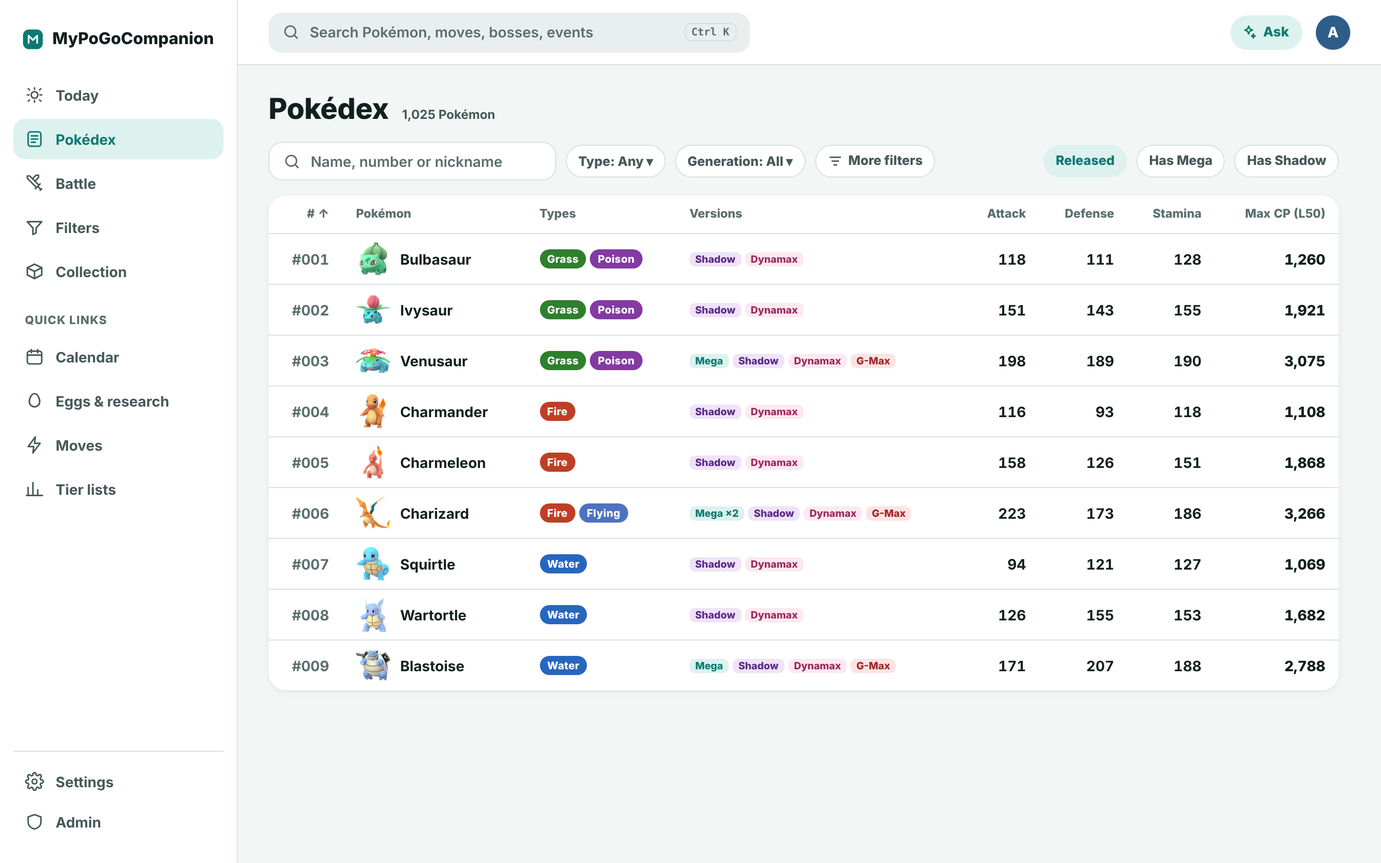
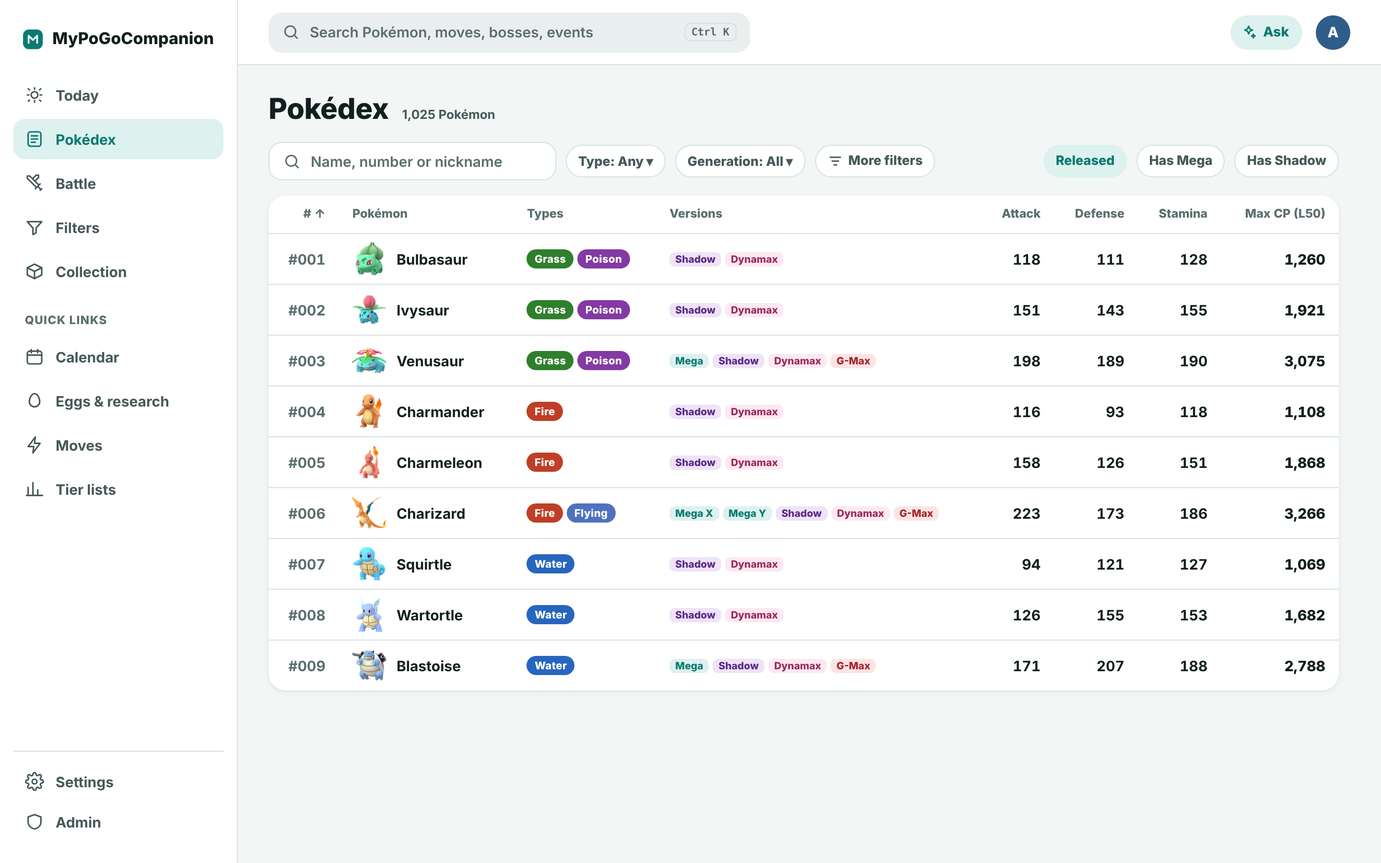
B1: version markers switch the row to that version (hover/tap)
Claude-Session: https://claude.ai/code/session_014PLsCiJiJmtsciFeh9tQXY

diff --git a/design/source/screens/B1-desktop.html b/design/source/screens/B1-desktop.html
@@ -4,13 +4,13 @@
 <div style="display:flex;gap:10px;align-items:center;flex-wrap:wrap"><div class="searchbox" style="width:300px;height:40px;background:var(--surface);border:1px solid var(--line)">SEARCHICON Name, number or nickname</div>
 <span class="tbtn">Type: Any ▾</span><span class="tbtn">Generation: All ▾</span><span class="tbtn"><svg width="16" height="16" viewBox="0 0 24 24" fill="none" stroke="currentColor" stroke-width="2.2" stroke-linecap="round"><path d="M4 6h16M7 12h10M10 18h4"/></svg>More filters</span><span style="flex:1"></span><span class="tbtn on">Released</span><span class="tbtn">Has Mega</span><span class="tbtn">Has Shadow</span></div>
 <div class="card" style="overflow:hidden"><table class="dex"><tr><th class="n"># ↑</th><th>Pokémon</th><th>Types</th><th>Versions</th><th class="n">Attack</th><th class="n">Defense</th><th class="n">Stamina</th><th class="n">Max CP (L50)</th></tr>
-<tr><td class="n" style="color:var(--text-3)">#001</td><td><span style="display:flex;align-items:center;gap:10px"><img class="sprite" src="../sprites/001.png" width="36" height="36" alt="">Bulbasaur</span></td>
-<td><span style="display:flex;gap:4px"><span class="type grass">Grass</span><span class="type poison">Poison</span></span></td><td><span class="vers"><span class="ver shadow">Shadow</span><span class="ver dynamax">Dynamax</span></span></td><td class="n">118</td><td class="n">111</td><td class="n">128</td><td class="n" style="font-weight:800">1,260</td></tr><tr><td class="n" style="color:var(--text-3)">#002</td><td><span style="display:flex;align-items:center;gap:10px"><img class="sprite" src="../sprites/002.png" width="36" height="36" alt="">Ivysaur</span></td>
-<td><span style="display:flex;gap:4px"><span class="type grass">Grass</span><span class="type poison">Poison</span></span></td><td><span class="vers"><span class="ver shadow">Shadow</span><span class="ver dynamax">Dynamax</span></span></td><td class="n">151</td><td class="n">143</td><td class="n">155</td><td class="n" style="font-weight:800">1,921</td></tr><tr><td class="n" style="color:var(--text-3)">#003</td><td><span style="display:flex;align-items:center;gap:10px"><img class="sprite" src="../sprites/003.png" width="36" height="36" alt="">Venusaur</span></td>
-<td><span style="display:flex;gap:4px"><span class="type grass">Grass</span><span class="type poison">Poison</span></span></td><td><span class="vers"><span class="ver mega">Mega</span><span class="ver shadow">Shadow</span><span class="ver dynamax">Dynamax</span><span class="ver gmax">G-Max</span></span></td><td class="n">198</td><td class="n">189</td><td class="n">190</td><td class="n" style="font-weight:800">3,075</td></tr><tr><td class="n" style="color:var(--text-3)">#004</td><td><span style="display:flex;align-items:center;gap:10px"><img class="sprite" src="../sprites/004.png" width="36" height="36" alt="">Charmander</span></td>
-<td><span style="display:flex;gap:4px"><span class="type fire">Fire</span></span></td><td><span class="vers"><span class="ver shadow">Shadow</span><span class="ver dynamax">Dynamax</span></span></td><td class="n">116</td><td class="n">93</td><td class="n">118</td><td class="n" style="font-weight:800">1,108</td></tr><tr><td class="n" style="color:var(--text-3)">#005</td><td><span style="display:flex;align-items:center;gap:10px"><img class="sprite" src="../sprites/005.png" width="36" height="36" alt="">Charmeleon</span></td>
-<td><span style="display:flex;gap:4px"><span class="type fire">Fire</span></span></td><td><span class="vers"><span class="ver shadow">Shadow</span><span class="ver dynamax">Dynamax</span></span></td><td class="n">158</td><td class="n">126</td><td class="n">151</td><td class="n" style="font-weight:800">1,868</td></tr><tr><td class="n" style="color:var(--text-3)">#006</td><td><span style="display:flex;align-items:center;gap:10px"><img class="sprite" src="../sprites/006.png" width="36" height="36" alt="">Charizard</span></td>
-<td><span style="display:flex;gap:4px"><span class="type fire">Fire</span><span class="type flying">Flying</span></span></td><td><span class="vers"><span class="ver mega">Mega ×2</span><span class="ver shadow">Shadow</span><span class="ver dynamax">Dynamax</span><span class="ver gmax">G-Max</span></span></td><td class="n">223</td><td class="n">173</td><td class="n">186</td><td class="n" style="font-weight:800">3,266</td></tr><tr><td class="n" style="color:var(--text-3)">#007</td><td><span style="display:flex;align-items:center;gap:10px"><img class="sprite" src="../sprites/007.png" width="36" height="36" alt="">Squirtle</span></td>
-<td><span style="display:flex;gap:4px"><span class="type water">Water</span></span></td><td><span class="vers"><span class="ver shadow">Shadow</span><span class="ver dynamax">Dynamax</span></span></td><td class="n">94</td><td class="n">121</td><td class="n">127</td><td class="n" style="font-weight:800">1,069</td></tr><tr><td class="n" style="color:var(--text-3)">#008</td><td><span style="display:flex;align-items:center;gap:10px"><img class="sprite" src="../sprites/008.png" width="36" height="36" alt="">Wartortle</span></td>
-<td><span style="display:flex;gap:4px"><span class="type water">Water</span></span></td><td><span class="vers"><span class="ver shadow">Shadow</span><span class="ver dynamax">Dynamax</span></span></td><td class="n">126</td><td class="n">155</td><td class="n">153</td><td class="n" style="font-weight:800">1,682</td></tr><tr><td class="n" style="color:var(--text-3)">#009</td><td><span style="display:flex;align-items:center;gap:10px"><img class="sprite" src="../sprites/009.png" width="36" height="36" alt="">Blastoise</span></td>
+<tr class=""><td class="n" style="color:var(--text-3)">#001</td><td><span style="display:flex;align-items:center;gap:10px"><img class="sprite" src="../sprites/001.png" width="36" height="36" alt="">Bulbasaur</span></td>
+<td><span style="display:flex;gap:4px"><span class="type grass">Grass</span><span class="type poison">Poison</span></span></td><td><span class="vers"><span class="ver shadow">Shadow</span><span class="ver dynamax">Dynamax</span></span></td><td class="n">118</td><td class="n">111</td><td class="n">128</td><td class="n" style="font-weight:800">1,260</td></tr><tr class=""><td class="n" style="color:var(--text-3)">#002</td><td><span style="display:flex;align-items:center;gap:10px"><img class="sprite" src="../sprites/002.png" width="36" height="36" alt="">Ivysaur</span></td>
+<td><span style="display:flex;gap:4px"><span class="type grass">Grass</span><span class="type poison">Poison</span></span></td><td><span class="vers"><span class="ver shadow">Shadow</span><span class="ver dynamax">Dynamax</span></span></td><td class="n">151</td><td class="n">143</td><td class="n">155</td><td class="n" style="font-weight:800">1,921</td></tr><tr class=""><td class="n" style="color:var(--text-3)">#003</td><td><span style="display:flex;align-items:center;gap:10px"><img class="sprite" src="../sprites/003.png" width="36" height="36" alt="">Venusaur</span></td>
+<td><span style="display:flex;gap:4px"><span class="type grass">Grass</span><span class="type poison">Poison</span></span></td><td><span class="vers"><span class="ver mega">Mega</span><span class="ver shadow">Shadow</span><span class="ver dynamax">Dynamax</span><span class="ver gmax">G-Max</span></span></td><td class="n">198</td><td class="n">189</td><td class="n">190</td><td class="n" style="font-weight:800">3,075</td></tr><tr class=""><td class="n" style="color:var(--text-3)">#004</td><td><span style="display:flex;align-items:center;gap:10px"><img class="sprite" src="../sprites/004.png" width="36" height="36" alt="">Charmander</span></td>
+<td><span style="display:flex;gap:4px"><span class="type fire">Fire</span></span></td><td><span class="vers"><span class="ver shadow">Shadow</span><span class="ver dynamax">Dynamax</span></span></td><td class="n">116</td><td class="n">93</td><td class="n">118</td><td class="n" style="font-weight:800">1,108</td></tr><tr class=""><td class="n" style="color:var(--text-3)">#005</td><td><span style="display:flex;align-items:center;gap:10px"><img class="sprite" src="../sprites/005.png" width="36" height="36" alt="">Charmeleon</span></td>
+<td><span style="display:flex;gap:4px"><span class="type fire">Fire</span></span></td><td><span class="vers"><span class="ver shadow">Shadow</span><span class="ver dynamax">Dynamax</span></span></td><td class="n">158</td><td class="n">126</td><td class="n">151</td><td class="n" style="font-weight:800">1,868</td></tr><tr class=""><td class="n" style="color:var(--text-3)">#006</td><td><span style="display:flex;align-items:center;gap:10px"><img class="sprite" src="../sprites/006.png" width="36" height="36" alt="">Charizard</span></td>
+<td><span style="display:flex;gap:4px"><span class="type fire">Fire</span><span class="type flying">Flying</span></span></td><td><span class="vers"><span class="ver mega">Mega X</span><span class="ver mega">Mega Y</span><span class="ver shadow">Shadow</span><span class="ver dynamax">Dynamax</span><span class="ver gmax">G-Max</span></span></td><td class="n">223</td><td class="n">173</td><td class="n">186</td><td class="n" style="font-weight:800">3,266</td></tr><tr class=""><td class="n" style="color:var(--text-3)">#007</td><td><span style="display:flex;align-items:center;gap:10px"><img class="sprite" src="../sprites/007.png" width="36" height="36" alt="">Squirtle</span></td>
+<td><span style="display:flex;gap:4px"><span class="type water">Water</span></span></td><td><span class="vers"><span class="ver shadow">Shadow</span><span class="ver dynamax">Dynamax</span></span></td><td class="n">94</td><td class="n">121</td><td class="n">127</td><td class="n" style="font-weight:800">1,069</td></tr><tr class=""><td class="n" style="color:var(--text-3)">#008</td><td><span style="display:flex;align-items:center;gap:10px"><img class="sprite" src="../sprites/008.png" width="36" height="36" alt="">Wartortle</span></td>
+<td><span style="display:flex;gap:4px"><span class="type water">Water</span></span></td><td><span class="vers"><span class="ver shadow">Shadow</span><span class="ver dynamax">Dynamax</span></span></td><td class="n">126</td><td class="n">155</td><td class="n">153</td><td class="n" style="font-weight:800">1,682</td></tr><tr class=""><td class="n" style="color:var(--text-3)">#009</td><td><span style="display:flex;align-items:center;gap:10px"><img class="sprite" src="../sprites/009.png" width="36" height="36" alt="">Blastoise</span></td>
 <td><span style="display:flex;gap:4px"><span class="type water">Water</span></span></td><td><span class="vers"><span class="ver mega">Mega</span><span class="ver shadow">Shadow</span><span class="ver dynamax">Dynamax</span><span class="ver gmax">G-Max</span></span></td><td class="n">171</td><td class="n">207</td><td class="n">188</td><td class="n" style="font-weight:800">2,788</td></tr></table></div></div></div></div><script src="../chrome.js"></script><script>document.body.innerHTML=document.body.innerHTML.replaceAll("SEARCHICON",icon("search",19));</script></body></html>

diff --git a/design/source/screens/B1h-desktop.html b/design/source/screens/B1h-desktop.html
@@ -1,0 +1,16 @@
+<!doctype html><html lang="en"><head><meta charset="utf-8"><title>B1 Pokédex</title><link rel="stylesheet" href="../base.css"><link rel="stylesheet" href="_b1.css"></head><body><div class="desktop"><div data-sidebar="pokedex"></div><div class="main"><div data-topbar></div>
+<div class="content" style="max-width:1180px;display:flex;flex-direction:column;gap:16px">
+<div style="display:flex;align-items:baseline;gap:14px"><h1 class="bigtitle" style="flex:none">Pokédex</h1><span class="count">1,025 Pokémon</span></div>
+<div style="display:flex;gap:10px;align-items:center;flex-wrap:wrap"><div class="searchbox" style="width:300px;height:40px;background:var(--surface);border:1px solid var(--line)">SEARCHICON Name, number or nickname</div>
+<span class="tbtn">Type: Any ▾</span><span class="tbtn">Generation: All ▾</span><span class="tbtn"><svg width="16" height="16" viewBox="0 0 24 24" fill="none" stroke="currentColor" stroke-width="2.2" stroke-linecap="round"><path d="M4 6h16M7 12h10M10 18h4"/></svg>More filters</span><span style="flex:1"></span><span class="tbtn on">Released</span><span class="tbtn">Has Mega</span><span class="tbtn">Has Shadow</span></div>
+<div class="card" style="overflow:hidden"><table class="dex"><tr><th class="n"># ↑</th><th>Pokémon</th><th>Types</th><th>Versions</th><th class="n">Attack</th><th class="n">Defense</th><th class="n">Stamina</th><th class="n">Max CP (L50)</th></tr>
+<tr class=""><td class="n" style="color:var(--text-3)">#001</td><td><span style="display:flex;align-items:center;gap:10px"><img class="sprite" src="../sprites/001.png" width="36" height="36" alt="">Bulbasaur</span></td>
+<td><span style="display:flex;gap:4px"><span class="type grass">Grass</span><span class="type poison">Poison</span></span></td><td><span class="vers"><span class="ver shadow">Shadow</span><span class="ver dynamax">Dynamax</span></span></td><td class="n">118</td><td class="n">111</td><td class="n">128</td><td class="n" style="font-weight:800">1,260</td></tr><tr class=""><td class="n" style="color:var(--text-3)">#002</td><td><span style="display:flex;align-items:center;gap:10px"><img class="sprite" src="../sprites/002.png" width="36" height="36" alt="">Ivysaur</span></td>
+<td><span style="display:flex;gap:4px"><span class="type grass">Grass</span><span class="type poison">Poison</span></span></td><td><span class="vers"><span class="ver shadow">Shadow</span><span class="ver dynamax">Dynamax</span></span></td><td class="n">151</td><td class="n">143</td><td class="n">155</td><td class="n" style="font-weight:800">1,921</td></tr><tr class=""><td class="n" style="color:var(--text-3)">#003</td><td><span style="display:flex;align-items:center;gap:10px"><img class="sprite" src="../sprites/003.png" width="36" height="36" alt="">Venusaur</span></td>
+<td><span style="display:flex;gap:4px"><span class="type grass">Grass</span><span class="type poison">Poison</span></span></td><td><span class="vers"><span class="ver mega">Mega</span><span class="ver shadow">Shadow</span><span class="ver dynamax">Dynamax</span><span class="ver gmax">G-Max</span></span></td><td class="n">198</td><td class="n">189</td><td class="n">190</td><td class="n" style="font-weight:800">3,075</td></tr><tr class=""><td class="n" style="color:var(--text-3)">#004</td><td><span style="display:flex;align-items:center;gap:10px"><img class="sprite" src="../sprites/004.png" width="36" height="36" alt="">Charmander</span></td>
+<td><span style="display:flex;gap:4px"><span class="type fire">Fire</span></span></td><td><span class="vers"><span class="ver shadow">Shadow</span><span class="ver dynamax">Dynamax</span></span></td><td class="n">116</td><td class="n">93</td><td class="n">118</td><td class="n" style="font-weight:800">1,108</td></tr><tr class=""><td class="n" style="color:var(--text-3)">#005</td><td><span style="display:flex;align-items:center;gap:10px"><img class="sprite" src="../sprites/005.png" width="36" height="36" alt="">Charmeleon</span></td>
+<td><span style="display:flex;gap:4px"><span class="type fire">Fire</span></span></td><td><span class="vers"><span class="ver shadow">Shadow</span><span class="ver dynamax">Dynamax</span></span></td><td class="n">158</td><td class="n">126</td><td class="n">151</td><td class="n" style="font-weight:800">1,868</td></tr><tr class="hovrow"><td class="n" style="color:var(--text-3)">#006</td><td><span style="display:flex;align-items:center;gap:10px"><img class="sprite" src="../sprites/006_52.png" width="36" height="36" alt="">Charizard</span></td>
+<td><span style="display:flex;gap:4px"><span class="type fire">Fire</span><span class="type flying">Flying</span></span></td><td><span class="vers"><span class="ver mega">Mega X</span><span class="ver mega hov">Mega Y</span><span class="ver shadow">Shadow</span><span class="ver dynamax">Dynamax</span><span class="ver gmax">G-Max</span></span><div class="showing">Showing Mega Charizard Y</div></td><td class="n">319</td><td class="n">212</td><td class="n">186</td><td class="n" style="font-weight:800">5,037</td></tr><tr class=""><td class="n" style="color:var(--text-3)">#007</td><td><span style="display:flex;align-items:center;gap:10px"><img class="sprite" src="../sprites/007.png" width="36" height="36" alt="">Squirtle</span></td>
+<td><span style="display:flex;gap:4px"><span class="type water">Water</span></span></td><td><span class="vers"><span class="ver shadow">Shadow</span><span class="ver dynamax">Dynamax</span></span></td><td class="n">94</td><td class="n">121</td><td class="n">127</td><td class="n" style="font-weight:800">1,069</td></tr><tr class=""><td class="n" style="color:var(--text-3)">#008</td><td><span style="display:flex;align-items:center;gap:10px"><img class="sprite" src="../sprites/008.png" width="36" height="36" alt="">Wartortle</span></td>
+<td><span style="display:flex;gap:4px"><span class="type water">Water</span></span></td><td><span class="vers"><span class="ver shadow">Shadow</span><span class="ver dynamax">Dynamax</span></span></td><td class="n">126</td><td class="n">155</td><td class="n">153</td><td class="n" style="font-weight:800">1,682</td></tr><tr class=""><td class="n" style="color:var(--text-3)">#009</td><td><span style="display:flex;align-items:center;gap:10px"><img class="sprite" src="../sprites/009.png" width="36" height="36" alt="">Blastoise</span></td>
+<td><span style="display:flex;gap:4px"><span class="type water">Water</span></span></td><td><span class="vers"><span class="ver mega">Mega</span><span class="ver shadow">Shadow</span><span class="ver dynamax">Dynamax</span><span class="ver gmax">G-Max</span></span></td><td class="n">171</td><td class="n">207</td><td class="n">188</td><td class="n" style="font-weight:800">2,788</td></tr></table></div></div></div></div><script src="../chrome.js"></script><script>document.body.innerHTML=document.body.innerHTML.replaceAll("SEARCHICON",icon("search",19));</script></body></html>

diff --git a/design/source/screens/B1h-phone.html b/design/source/screens/B1h-phone.html
@@ -1,0 +1,10 @@
+<!doctype html><html lang="en"><head><meta charset="utf-8"><title>B1 Pokédex</title><link rel="stylesheet" href="../base.css"><link rel="stylesheet" href="_b1.css"></head><body><div class="stage"><div class="device"><div class="screen"><div data-statusbar></div><header class="apphead"><div class="titlerow"><h1 class="bigtitle">Pokédex</h1><span data-ask></span><div class="avatar">A</div></div>
+<div class="searchbox">SEARCHICON Name, number or nickname</div></header>
+<div class="scroll"><div style="padding:12px 12px 8px;display:flex;flex-direction:column;gap:10px"><div class="toolbar"><span class="tbtn"><svg width="16" height="16" viewBox="0 0 24 24" fill="none" stroke="currentColor" stroke-width="2.2" stroke-linecap="round"><path d="M4 6h16M7 12h10M10 18h4"/></svg>Filters</span><span class="tbtn">Sort: Number ↑</span><span class="tbtn on">Released</span><span class="tbtn">Has Mega</span><span class="tbtn">Has Shadow</span></div><div style="display:flex;justify-content:space-between;align-items:baseline"><span class="count">1,025 Pokémon</span><span class="count" style="text-align:right;line-height:1.25">Max CP (L50)<br>Atk · Def · Sta</span></div></div>
+<div class="card" style="margin:0 10px 16px;overflow:hidden"><div class="drow"><img class="sprite" src="../sprites/004.png" width="46" height="46" alt=""><div class="nm"><span class="no">#004</span><b>Charmander</b><span class="types"><span class="type fire">Fire</span></span><span class="vers"><span class="ver shadow">Shadow</span><span class="ver dynamax">Dynamax</span></span></div>
+<div class="stats"><b>1,108</b><span>116 · 93 · 118</span></div></div><div class="drow"><img class="sprite" src="../sprites/005.png" width="46" height="46" alt=""><div class="nm"><span class="no">#005</span><b>Charmeleon</b><span class="types"><span class="type fire">Fire</span></span><span class="vers"><span class="ver shadow">Shadow</span><span class="ver dynamax">Dynamax</span></span></div>
+<div class="stats"><b>1,868</b><span>158 · 126 · 151</span></div></div><div class="drow hovrow"><img class="sprite" src="../sprites/006_52.png" width="46" height="46" alt=""><div class="nm"><span class="no">#006</span><b>Charizard</b><span class="types"><span class="type fire">Fire</span><span class="type flying">Flying</span></span><span class="vers"><span class="ver mega">Mega X</span><span class="ver mega hov">Mega Y</span><span class="ver shadow">Shadow</span><span class="ver dynamax">Dynamax</span><span class="ver gmax">G-Max</span></span><span class="showing">Showing Mega Charizard Y</span></div>
+<div class="stats"><b>5,037</b><span>319 · 212 · 186</span></div></div><div class="drow"><img class="sprite" src="../sprites/007.png" width="46" height="46" alt=""><div class="nm"><span class="no">#007</span><b>Squirtle</b><span class="types"><span class="type water">Water</span></span><span class="vers"><span class="ver shadow">Shadow</span><span class="ver dynamax">Dynamax</span></span></div>
+<div class="stats"><b>1,069</b><span>94 · 121 · 127</span></div></div><div class="drow"><img class="sprite" src="../sprites/008.png" width="46" height="46" alt=""><div class="nm"><span class="no">#008</span><b>Wartortle</b><span class="types"><span class="type water">Water</span></span><span class="vers"><span class="ver shadow">Shadow</span><span class="ver dynamax">Dynamax</span></span></div>
+<div class="stats"><b>1,682</b><span>126 · 155 · 153</span></div></div><div class="drow"><img class="sprite" src="../sprites/009.png" width="46" height="46" alt=""><div class="nm"><span class="no">#009</span><b>Blastoise</b><span class="types"><span class="type water">Water</span></span><span class="vers"><span class="ver mega">Mega</span><span class="ver shadow">Shadow</span><span class="ver dynamax">Dynamax</span><span class="ver gmax">G-Max</span></span></div>
+<div class="stats"><b>2,788</b><span>171 · 207 · 188</span></div></div></div></div><div data-tabbar="pokedex"></div></div></div></div><script src="../chrome.js"></script><script>document.body.innerHTML=document.body.innerHTML.replaceAll("SEARCHICON",icon("search",19));</script></body></html>

diff --git a/design/source/screens/B1-phone.html b/design/source/screens/B1-phone.html
@@ -6,7 +6,7 @@
 <div class="stats"><b>1,921</b><span>151 · 143 · 155</span></div></div><div class="drow"><img class="sprite" src="../sprites/003.png" width="46" height="46" alt=""><div class="nm"><span class="no">#003</span><b>Venusaur</b><span class="types"><span class="type grass">Grass</span><span class="type poison">Poison</span></span><span class="vers"><span class="ver mega">Mega</span><span class="ver shadow">Shadow</span><span class="ver dynamax">Dynamax</span><span class="ver gmax">G-Max</span></span></div>
 <div class="stats"><b>3,075</b><span>198 · 189 · 190</span></div></div><div class="drow"><img class="sprite" src="../sprites/004.png" width="46" height="46" alt=""><div class="nm"><span class="no">#004</span><b>Charmander</b><span class="types"><span class="type fire">Fire</span></span><span class="vers"><span class="ver shadow">Shadow</span><span class="ver dynamax">Dynamax</span></span></div>
 <div class="stats"><b>1,108</b><span>116 · 93 · 118</span></div></div><div class="drow"><img class="sprite" src="../sprites/005.png" width="46" height="46" alt=""><div class="nm"><span class="no">#005</span><b>Charmeleon</b><span class="types"><span class="type fire">Fire</span></span><span class="vers"><span class="ver shadow">Shadow</span><span class="ver dynamax">Dynamax</span></span></div>
-<div class="stats"><b>1,868</b><span>158 · 126 · 151</span></div></div><div class="drow"><img class="sprite" src="../sprites/006.png" width="46" height="46" alt=""><div class="nm"><span class="no">#006</span><b>Charizard</b><span class="types"><span class="type fire">Fire</span><span class="type flying">Flying</span></span><span class="vers"><span class="ver mega">Mega ×2</span><span class="ver shadow">Shadow</span><span class="ver dynamax">Dynamax</span><span class="ver gmax">G-Max</span></span></div>
+<div class="stats"><b>1,868</b><span>158 · 126 · 151</span></div></div><div class="drow"><img class="sprite" src="../sprites/006.png" width="46" height="46" alt=""><div class="nm"><span class="no">#006</span><b>Charizard</b><span class="types"><span class="type fire">Fire</span><span class="type flying">Flying</span></span><span class="vers"><span class="ver mega">Mega X</span><span class="ver mega">Mega Y</span><span class="ver shadow">Shadow</span><span class="ver dynamax">Dynamax</span><span class="ver gmax">G-Max</span></span></div>
 <div class="stats"><b>3,266</b><span>223 · 173 · 186</span></div></div><div class="drow"><img class="sprite" src="../sprites/007.png" width="46" height="46" alt=""><div class="nm"><span class="no">#007</span><b>Squirtle</b><span class="types"><span class="type water">Water</span></span><span class="vers"><span class="ver shadow">Shadow</span><span class="ver dynamax">Dynamax</span></span></div>
 <div class="stats"><b>1,069</b><span>94 · 121 · 127</span></div></div><div class="drow"><img class="sprite" src="../sprites/008.png" width="46" height="46" alt=""><div class="nm"><span class="no">#008</span><b>Wartortle</b><span class="types"><span class="type water">Water</span></span><span class="vers"><span class="ver shadow">Shadow</span><span class="ver dynamax">Dynamax</span></span></div>
 <div class="stats"><b>1,682</b><span>126 · 155 · 153</span></div></div><div class="drow"><img class="sprite" src="../sprites/009.png" width="46" height="46" alt=""><div class="nm"><span class="no">#009</span><b>Blastoise</b><span class="types"><span class="type water">Water</span></span><span class="vers"><span class="ver mega">Mega</span><span class="ver shadow">Shadow</span><span class="ver dynamax">Dynamax</span><span class="ver gmax">G-Max</span></span></div>

diff --git a/design/source/screens/B1f-phone.html b/design/source/screens/B1f-phone.html
@@ -6,7 +6,7 @@
 <div class="stats"><b>1,921</b><span>151 · 143 · 155</span></div></div><div class="drow"><img class="sprite" src="../sprites/003.png" width="46" height="46" alt=""><div class="nm"><span class="no">#003</span><b>Venusaur</b><span class="types"><span class="type grass">Grass</span><span class="type poison">Poison</span></span><span class="vers"><span class="ver mega">Mega</span><span class="ver shadow">Shadow</span><span class="ver dynamax">Dynamax</span><span class="ver gmax">G-Max</span></span></div>
 <div class="stats"><b>3,075</b><span>198 · 189 · 190</span></div></div><div class="drow"><img class="sprite" src="../sprites/004.png" width="46" height="46" alt=""><div class="nm"><span class="no">#004</span><b>Charmander</b><span class="types"><span class="type fire">Fire</span></span><span class="vers"><span class="ver shadow">Shadow</span><span class="ver dynamax">Dynamax</span></span></div>
 <div class="stats"><b>1,108</b><span>116 · 93 · 118</span></div></div><div class="drow"><img class="sprite" src="../sprites/005.png" width="46" height="46" alt=""><div class="nm"><span class="no">#005</span><b>Charmeleon</b><span class="types"><span class="type fire">Fire</span></span><span class="vers"><span class="ver shadow">Shadow</span><span class="ver dynamax">Dynamax</span></span></div>
-<div class="stats"><b>1,868</b><span>158 · 126 · 151</span></div></div><div class="drow"><img class="sprite" src="../sprites/006.png" width="46" height="46" alt=""><div class="nm"><span class="no">#006</span><b>Charizard</b><span class="types"><span class="type fire">Fire</span><span class="type flying">Flying</span></span><span class="vers"><span class="ver mega">Mega ×2</span><span class="ver shadow">Shadow</span><span class="ver dynamax">Dynamax</span><span class="ver gmax">G-Max</span></span></div>
+<div class="stats"><b>1,868</b><span>158 · 126 · 151</span></div></div><div class="drow"><img class="sprite" src="../sprites/006.png" width="46" height="46" alt=""><div class="nm"><span class="no">#006</span><b>Charizard</b><span class="types"><span class="type fire">Fire</span><span class="type flying">Flying</span></span><span class="vers"><span class="ver mega">Mega X</span><span class="ver mega">Mega Y</span><span class="ver shadow">Shadow</span><span class="ver dynamax">Dynamax</span><span class="ver gmax">G-Max</span></span></div>
 <div class="stats"><b>3,266</b><span>223 · 173 · 186</span></div></div><div class="drow"><img class="sprite" src="../sprites/007.png" width="46" height="46" alt=""><div class="nm"><span class="no">#007</span><b>Squirtle</b><span class="types"><span class="type water">Water</span></span><span class="vers"><span class="ver shadow">Shadow</span><span class="ver dynamax">Dynamax</span></span></div>
 <div class="stats"><b>1,069</b><span>94 · 121 · 127</span></div></div><div class="drow"><img class="sprite" src="../sprites/008.png" width="46" height="46" alt=""><div class="nm"><span class="no">#008</span><b>Wartortle</b><span class="types"><span class="type water">Water</span></span><span class="vers"><span class="ver shadow">Shadow</span><span class="ver dynamax">Dynamax</span></span></div>
 <div class="stats"><b>1,682</b><span>126 · 155 · 153</span></div></div><div class="drow"><img class="sprite" src="../sprites/009.png" width="46" height="46" alt=""><div class="nm"><span class="no">#009</span><b>Blastoise</b><span class="types"><span class="type water">Water</span></span><span class="vers"><span class="ver mega">Mega</span><span class="ver shadow">Shadow</span><span class="ver dynamax">Dynamax</span><span class="ver gmax">G-Max</span></span></div>

diff --git a/design/source/screens/_b1.css b/design/source/screens/_b1.css
@@ -44,3 +44,7 @@ table.dex tr:last-child td { border-bottom: 0; }
 .ver.shadow { background: #EFE3F7; color: #5B2A86; }
 .ver.gmax { background: #FCE4E4; color: #A3262B; }
 .ver.dynamax { background: #FCE9F1; color: #9C2A5E; }
+
+.ver.hov { outline: 2px solid currentColor; outline-offset: 1px; }
+.hovrow, .hovrow td { background: #EEF8F6 !important; }
+.showing { font-size: 11.5px; font-weight: 800; color: var(--accent); margin-top: 2px; }

diff --git a/design/source/screens/gen_b1.py b/design/source/screens/gen_b1.py
@@ -7,33 +7,45 @@ ROWS = [  # dex, sprite, name, types, atk, def, sta, maxcp, versions
     (3, "003", "Venusaur", ["grass", "poison"], 198, 189, 190, 3075, ["Mega", "Shadow", "Dynamax", "G-Max"]),
     (4, "004", "Charmander", ["fire"], 116, 93, 118, 1108, ["Shadow", "Dynamax"]),
     (5, "005", "Charmeleon", ["fire"], 158, 126, 151, 1868, ["Shadow", "Dynamax"]),
-    (6, "006", "Charizard", ["fire", "flying"], 223, 173, 186, 3266, ["Mega ×2", "Shadow", "Dynamax", "G-Max"]),
+    (6, "006", "Charizard", ["fire", "flying"], 223, 173, 186, 3266, ["Mega X", "Mega Y", "Shadow", "Dynamax", "G-Max"]),
     (7, "007", "Squirtle", ["water"], 94, 121, 127, 1069, ["Shadow", "Dynamax"]),
     (8, "008", "Wartortle", ["water"], 126, 155, 153, 1682, ["Shadow", "Dynamax"]),
     (9, "009", "Blastoise", ["water"], 171, 207, 188, 2788, ["Mega", "Shadow", "Dynamax", "G-Max"]),
 ]
+HOVER = None
 TYPES = ["normal", "fire", "water", "grass", "electric", "ice", "fighting", "poison", "ground", "flying", "psychic", "bug", "rock", "ghost", "dragon", "dark", "steel", "fairy"]
 f = lambda n: f"{n:,}"
 def tbadges(ts): return ''.join(f'<span class="type {t}">{t.capitalize()}</span>' for t in ts)
-def vchips(vs): return '<span class="vers">' + ''.join(f'<span class="ver {v.split()[0].lower().replace("-", "")}">{v}</span>' for v in vs) + '</span>'
+def vchips(vs, on=None): return '<span class="vers">' + ''.join(f'<span class="ver {v.split()[0].lower().replace("-", "")}{" hov" if v == on else ""}">{v}</span>' for v in vs) + '</span>'
+def hv(r):
+    if HOVER and HOVER[0] == r[0]:
+        d, sp, n, ts, a, de, s_, cp, vs = r
+        _, badge, sp, a, de, s_, cp, label = HOVER
+        return (d, sp, n, ts, a, de, s_, cp, vs), badge, label
+    return r, None, None
 def prow(r):
+    r, on, label = hv(r)
     d, sp, n, ts, a, de, s, cp, vs = r
-    return f'''<div class="drow"><img class="sprite" src="../sprites/{sp}.png" width="46" height="46" alt=""><div class="nm"><span class="no">#{d:03d}</span><b>{n}</b><span class="types">{tbadges(ts)}</span>{vchips(vs)}</div>
+    sub = f'<span class="showing">Showing {label}</span>' if label else ''
+    return f'''<div class="drow{" hovrow" if on else ""}"><img class="sprite" src="../sprites/{sp}.png" width="46" height="46" alt=""><div class="nm"><span class="no">#{d:03d}</span><b>{n}</b><span class="types">{tbadges(ts)}</span>{vchips(vs, on)}{sub}</div>
 <div class="stats"><b>{f(cp)}</b><span>{a} · {de} · {s}</span></div></div>'''
 def drow(r):
+    r, on, label = hv(r)
     d, sp, n, ts, a, de, s, cp, vs = r
-    return f'''<tr><td class="n" style="color:var(--text-3)">#{d:03d}</td><td><span style="display:flex;align-items:center;gap:10px"><img class="sprite" src="../sprites/{sp}.png" width="36" height="36" alt="">{n}</span></td>
-<td><span style="display:flex;gap:4px">{tbadges(ts)}</span></td><td>{vchips(vs)}</td><td class="n">{a}</td><td class="n">{de}</td><td class="n">{s}</td><td class="n" style="font-weight:800">{f(cp)}</td></tr>'''
+    return f'''<tr class="{"hovrow" if on else ""}"><td class="n" style="color:var(--text-3)">#{d:03d}</td><td><span style="display:flex;align-items:center;gap:10px"><img class="sprite" src="../sprites/{sp}.png" width="36" height="36" alt="">{n}</span></td>
+<td><span style="display:flex;gap:4px">{tbadges(ts)}</span></td><td>{vchips(vs, on)}{f'<div class="showing">Showing {label}</div>' if label else ''}</td><td class="n">{a}</td><td class="n">{de}</td><td class="n">{s}</td><td class="n" style="font-weight:800">{f(cp)}</td></tr>'''
 FIL = '<svg width="16" height="16" viewBox="0 0 24 24" fill="none" stroke="currentColor" stroke-width="2.2" stroke-linecap="round"><path d="M4 6h16M7 12h10M10 18h4"/></svg>'
 toolbar = f'<div class="toolbar"><span class="tbtn">{FIL}Filters</span><span class="tbtn">Sort: Number ↑</span><span class="tbtn on">Released</span><span class="tbtn">Has Mega</span><span class="tbtn">Has Shadow</span></div>'
 head = lambda t: f'<!doctype html><html lang="en"><head><meta charset="utf-8"><title>{t}</title><link rel="stylesheet" href="../base.css"><link rel="stylesheet" href="_b1.css"></head><body>'
 phead = '''<header class="apphead"><div class="titlerow"><h1 class="bigtitle">Pokédex</h1><span data-ask></span><div class="avatar">A</div></div>
 <div class="searchbox">SEARCHICON Name, number or nickname</div></header>'''
 script = '<script src="../chrome.js"></script><script>document.body.innerHTML=document.body.innerHTML.replaceAll("SEARCHICON",icon("search",19));</script>'
-listbody = f'''<div style="padding:12px 12px 8px;display:flex;flex-direction:column;gap:10px">{toolbar}<div style="display:flex;justify-content:space-between;align-items:baseline"><span class="count">1,025 Pokémon</span><span class="count" style="text-align:right;line-height:1.25">Max CP (L50)<br>Atk · Def · Sta</span></div></div>
-<div class="card" style="margin:0 10px 16px;overflow:hidden">{''.join(prow(r) for r in ROWS)}</div>'''
-phone = head("B1 Pokédex") + f'''<div class="stage"><div class="device"><div class="screen"><div data-statusbar></div>{phead}
-<div class="scroll">{listbody}</div><div data-tabbar="pokedex"></div></div></div></div>{script}</body></html>'''
+def listbody_src(rows=ROWS): return f'''<div style="padding:12px 12px 8px;display:flex;flex-direction:column;gap:10px">{toolbar}<div style="display:flex;justify-content:space-between;align-items:baseline"><span class="count">1,025 Pokémon</span><span class="count" style="text-align:right;line-height:1.25">Max CP (L50)<br>Atk · Def · Sta</span></div></div>
+<div class="card" style="margin:0 10px 16px;overflow:hidden">{''.join(prow(r) for r in rows)}</div>'''
+listbody = listbody_src()
+def phone_src(rows=ROWS): return head("B1 Pokédex") + f'''<div class="stage"><div class="device"><div class="screen"><div data-statusbar></div>{phead}
+<div class="scroll">{listbody_src(rows)}</div><div data-tabbar="pokedex"></div></div></div></div>{script}</body></html>'''
+phone = phone_src()
 
 def tsel(t): return f'<span class="type {t}{" sel" if t == "ground" else ""}">{t.capitalize()}</span>'
 def rng(label, lo, hi, a, b):
@@ -51,13 +63,20 @@ sheet = f'''<div class="sheetbg"></div><div class="sheet"><div class="grab"></di
 phonef = head("B1 Pokédex — filters") + f'''<div class="stage"><div class="device"><div class="screen"><div data-statusbar></div>{phead}
 <div class="scroll">{listbody}</div><div data-tabbar="pokedex"></div>{sheet}</div></div></div>{script}</body></html>'''
 
-desk = head("B1 Pokédex") + f'''<div class="desktop"><div data-sidebar="pokedex"></div><div class="main"><div data-topbar></div>
+def desk_src(): return head("B1 Pokédex") + f'''<div class="desktop"><div data-sidebar="pokedex"></div><div class="main"><div data-topbar></div>
 <div class="content" style="max-width:1180px;display:flex;flex-direction:column;gap:16px">
 <div style="display:flex;align-items:baseline;gap:14px"><h1 class="bigtitle" style="flex:none">Pokédex</h1><span class="count">1,025 Pokémon</span></div>
 <div style="display:flex;gap:10px;align-items:center;flex-wrap:wrap"><div class="searchbox" style="width:300px;height:40px;background:var(--surface);border:1px solid var(--line)">SEARCHICON Name, number or nickname</div>
 <span class="tbtn">Type: Any ▾</span><span class="tbtn">Generation: All ▾</span><span class="tbtn">{FIL}More filters</span><span style="flex:1"></span><span class="tbtn on">Released</span><span class="tbtn">Has Mega</span><span class="tbtn">Has Shadow</span></div>
 <div class="card" style="overflow:hidden"><table class="dex"><tr><th class="n"># ↑</th><th>Pokémon</th><th>Types</th><th>Versions</th><th class="n">Attack</th><th class="n">Defense</th><th class="n">Stamina</th><th class="n">Max CP (L50)</th></tr>
 {''.join(drow(r) for r in ROWS)}</table></div></div></div></div>{script}</body></html>'''
+desk = desk_src()
 (HERE / 'B1-phone.html').write_text(phone)
 (HERE / 'B1f-phone.html').write_text(phonef)
 (HERE / 'B1-desktop.html').write_text(desk)
+
+# Hover / tap variant: Charizard showing Mega Y
+HOVER = (6, "Mega Y", "006_52", 319, 212, 186, 5037, "Mega Charizard Y")
+deskh = desk_src()
+(HERE / 'B1h-desktop.html').write_text(deskh)
+(HERE / 'B1h-phone.html').write_text(phone_src(ROWS[3:]))

diff --git a/planning/SPECS.md b/planning/SPECS.md
@@ -6,7 +6,7 @@ How each feature works from the user's side, as signed off by the owner. Priorit
 
 **What it's for.** Look up any Pokémon in the game and find the ones that match what you need — for example "every Ground type with Attack above 250" or "all Legendaries not released yet".
 
-**Opening it (MVP).** A list of every Pokémon: **one line per species (1,025)**. Versions are not separate lines; each line shows small **version markers** — Mega (or Mega ×2), Shadow, Dynamax, G-Max, regional forms — and the versions themselves are on the Pokémon's page (feature 2). Each line shows the picture, Pokédex number, name, types, the version markers, max CP at level 50 and base Attack · Defense · Stamina, taken from the base form. Starts in Pokédex order. Tapping a line opens the Pokémon's page. *(Changed at design review 2026-10-27; was one line per form.)*
+**Opening it (MVP).** A list of every Pokémon: **one line per species (1,025)**. Versions are not separate lines; each line shows small **version markers** — Mega (or Mega ×2), Shadow, Dynamax, G-Max, regional forms — and the versions themselves are on the Pokémon's page (feature 2). Each line shows the picture, Pokédex number, name, types, the version markers, max CP at level 50 and base Attack · Defense · Stamina, taken from the base form. **Hovering a version marker (desktop) or tapping it (phone) switches that line to the version**: picture, stats and max CP change (e.g. Charizard → Mega Charizard Y: 319 · 212 · 186, 5,037) with "Showing Mega Charizard Y"; tapping it again on a phone goes back. Versions with the same base stats (Shadow, Dynamax, G-Max) show a short note instead (e.g. "Shadow: same stats; deals 20% more damage and takes 20% more"). Charizard's Megas are two markers (Mega X, Mega Y). Starts in Pokédex order. Tapping a line opens the Pokémon's page. *(Changed at design review 2026-10-27; was one line per form.)*
 
 **Searching (MVP).** One box that filters as you type: names in English or Portuguese ("Garchomp", "garch"), Pokédex numbers ("445"), and common nicknames ("chomp", "m2", "zard").
 

diff --git a/CLAUDE.md b/CLAUDE.md
@@ -142,6 +142,7 @@ Earlier product work (feature list F01–F25 with priorities, UI choices, first 
 | 2026-10-27 | New MVP item **13.8**: event details show your copies of the featured Pokémon with evolve/keep/transfer advice. **A3 Event details approved.** |
 | 2026-10-27 | Data freshness: **no "data as of" dates on screens; only an out-of-date warning** when data stops updating (16.3 changed, MVP). **A4 Eggs & research approved.** |
 | 2026-10-27 | Pokédex list: **one row per species**, versions shown as markers (Mega, Shadow, Dynamax, G-Max, regional forms) and detailed on the Pokémon page; stats/filters use the base form; version filters (has Mega/Shadow, can Dynamax/Gigantamax, regional forms). Spec 1 updated. |
+| 2026-10-27 | Pokédex list: lines show the base form; **hovering (desktop) or tapping (phone) a version marker switches the line to that version's stats**; same-stat versions (Shadow, Dynamax, G-Max) show a note. |
 | 2026-10-27 | All commits authored by the owner's GitHub account (history rewritten); Claude's involvement shown by the Co-Authored-By trailer. |
 
 ## Open decisions
